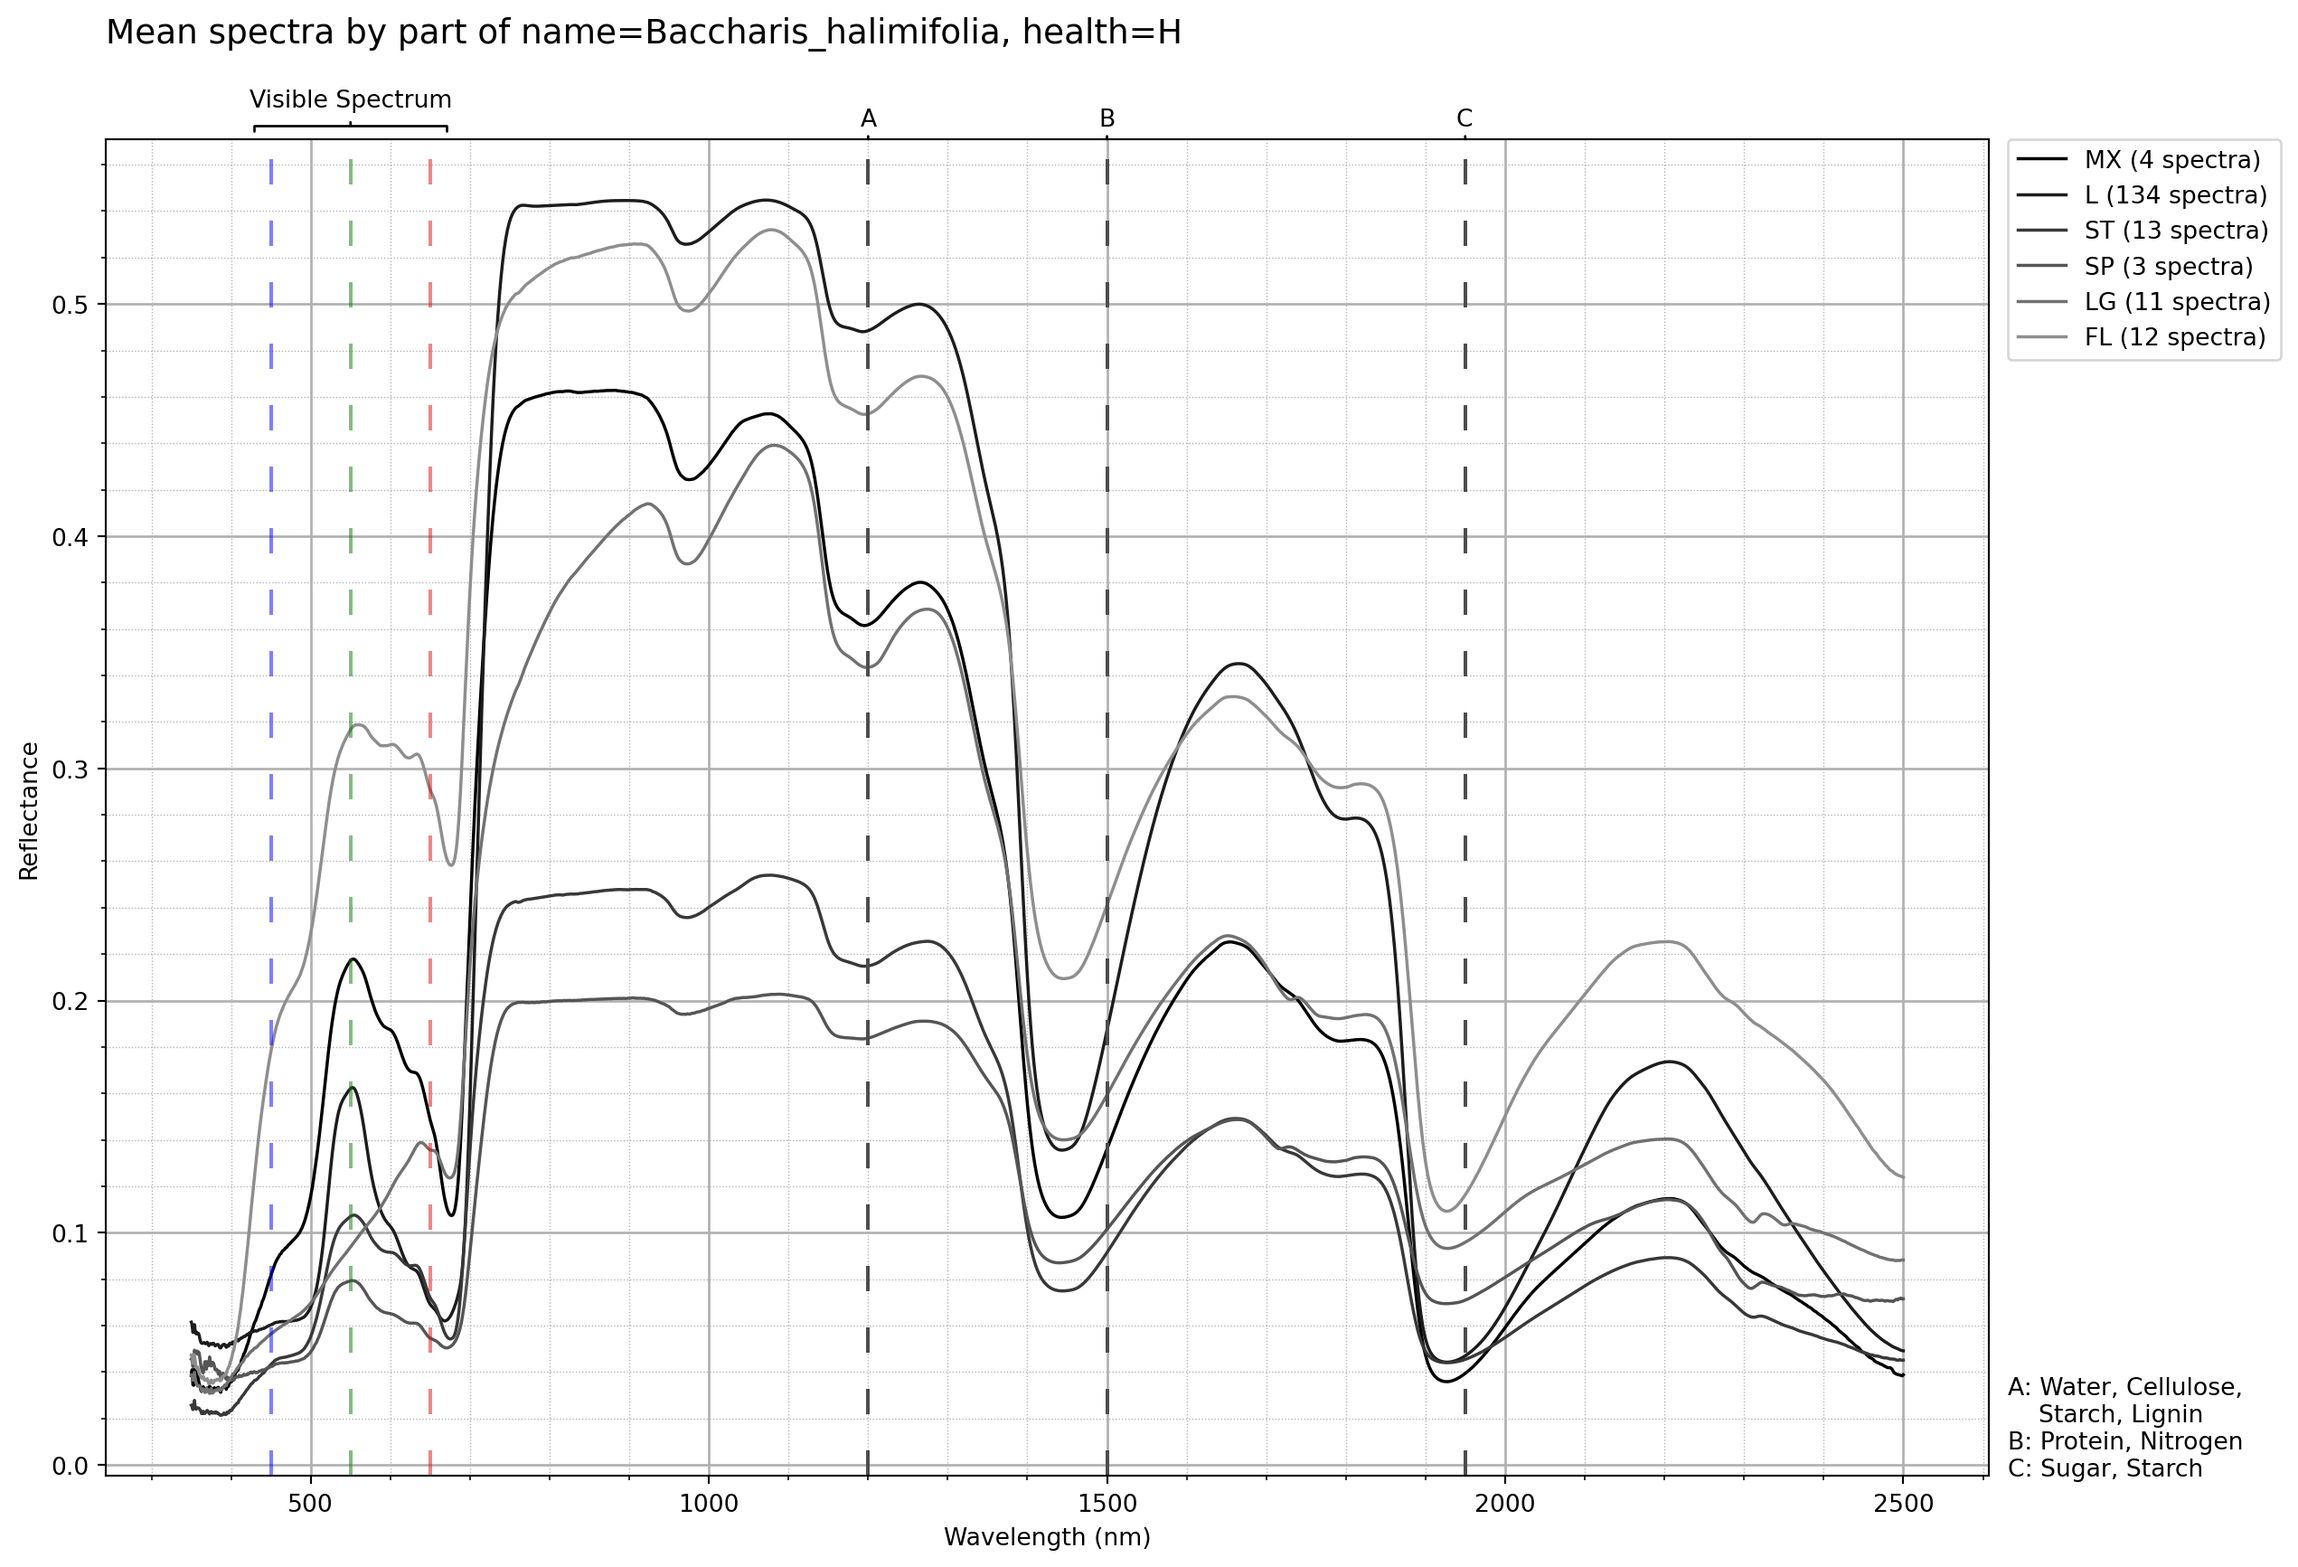
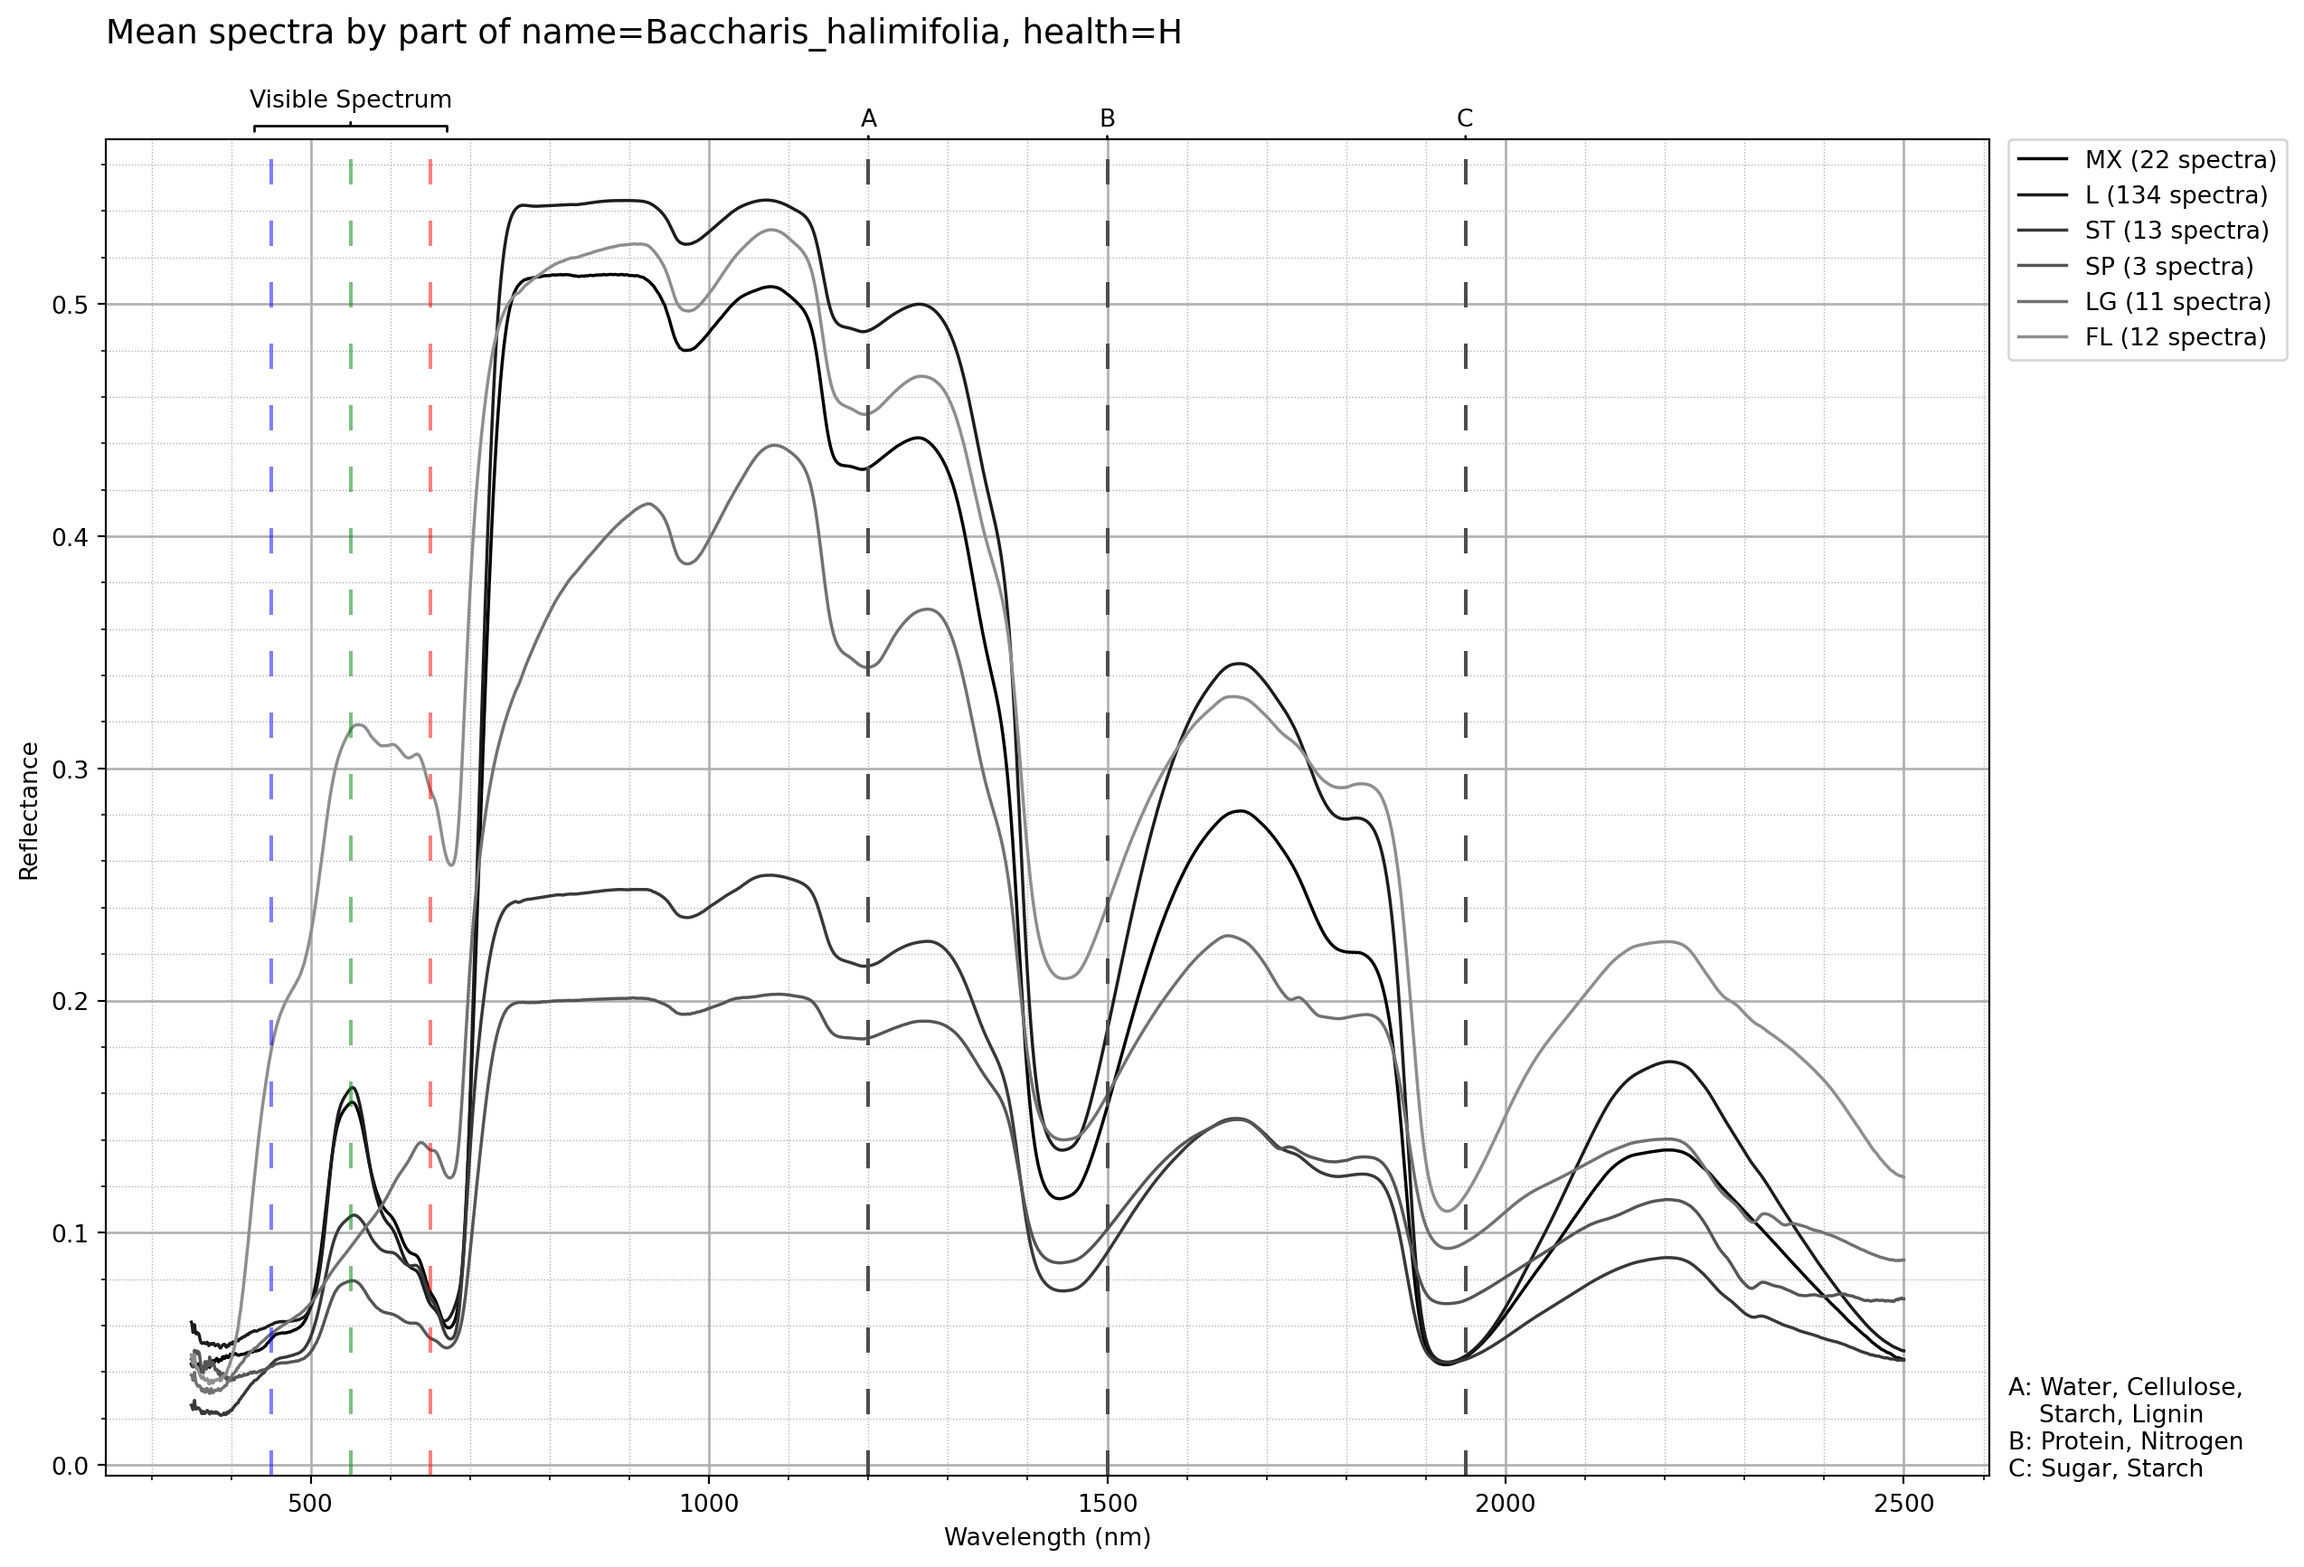
Built site for gh-pages

diff --git a/reports/Report1.html b/reports/Report1.html
@@ -152,7 +152,7 @@ ul.task-list li input[type="checkbox"] {
 
 <section id="spectral-library" class="level2 page-columns page-full">
 <h2 class="anchored" data-anchor-id="spectral-library">Spectral Library</h2>
-<p>Number of Spectra: 4926</p>
+<p>Number of Spectra: 5016</p>
 <div id="cell-table1" class="cell page-columns page-full" data-execution_count="9">
 <div id="table1" class="cell-output cell-output-display column-page-inset-right" data-execution_count="9">
 <div>
@@ -222,8 +222,8 @@ ul.task-list li input[type="checkbox"] {
 </tr>
 <tr class="even">
 <td data-quarto-table-cell-role="th">Baccharis_halimifolia</td>
-<td>260</td>
-<td>4</td>
+<td>278</td>
+<td>22</td>
 <td>217</td>
 <td>13</td>
 <td>3</td>
@@ -233,10 +233,10 @@ ul.task-list li input[type="checkbox"] {
 <td>0</td>
 <td>0</td>
 <td>76</td>
-<td>76</td>
+<td>94</td>
 <td>104</td>
 <td>37</td>
-<td>177</td>
+<td>195</td>
 <td>0</td>
 <td>0</td>
 <td>0</td>
@@ -244,7 +244,7 @@ ul.task-list li input[type="checkbox"] {
 <td>46</td>
 <td>0</td>
 <td>0</td>
-<td>4</td>
+<td>22</td>
 <td>45</td>
 <td>0</td>
 <td>0</td>
@@ -309,9 +309,9 @@ ul.task-list li input[type="checkbox"] {
 </tr>
 <tr class="odd">
 <td data-quarto-table-cell-role="th">Ilex_vomitoria</td>
-<td>481</td>
-<td>109</td>
-<td>132</td>
+<td>507</td>
+<td>120</td>
+<td>147</td>
 <td>60</td>
 <td>26</td>
 <td>124</td>
@@ -320,10 +320,10 @@ ul.task-list li input[type="checkbox"] {
 <td>0</td>
 <td>6</td>
 <td>0</td>
-<td>423</td>
+<td>449</td>
 <td>7</td>
 <td>7</td>
-<td>432</td>
+<td>458</td>
 <td>0</td>
 <td>0</td>
 <td>0</td>
@@ -338,10 +338,10 @@ ul.task-list li input[type="checkbox"] {
 </tr>
 <tr class="even">
 <td data-quarto-table-cell-role="th">Iva_frutescens</td>
-<td>397</td>
+<td>414</td>
 <td>14</td>
-<td>297</td>
-<td>50</td>
+<td>307</td>
+<td>57</td>
 <td>9</td>
 <td>24</td>
 <td>0</td>
@@ -349,7 +349,7 @@ ul.task-list li input[type="checkbox"] {
 <td>0</td>
 <td>0</td>
 <td>5</td>
-<td>107</td>
+<td>124</td>
 <td>193</td>
 <td>57</td>
 <td>173</td>
@@ -358,7 +358,7 @@ ul.task-list li input[type="checkbox"] {
 <td>0</td>
 <td>0</td>
 <td>71</td>
-<td>69</td>
+<td>86</td>
 <td>14</td>
 <td>106</td>
 <td>15</td>
@@ -483,8 +483,8 @@ ul.task-list li input[type="checkbox"] {
 </tr>
 <tr class="odd">
 <td data-quarto-table-cell-role="th">Rosa_rugosa</td>
-<td>220</td>
-<td>71</td>
+<td>232</td>
+<td>83</td>
 <td>125</td>
 <td>12</td>
 <td>0</td>
@@ -493,11 +493,11 @@ ul.task-list li input[type="checkbox"] {
 <td>0</td>
 <td>0</td>
 <td>59</td>
-<td>111</td>
+<td>123</td>
 <td>47</td>
 <td>3</td>
 <td>3</td>
-<td>168</td>
+<td>180</td>
 <td>8</td>
 <td>0</td>
 <td>0</td>
@@ -541,9 +541,9 @@ ul.task-list li input[type="checkbox"] {
 </tr>
 <tr class="odd">
 <td data-quarto-table-cell-role="th">Solidago_sempervirens</td>
-<td>367</td>
+<td>384</td>
 <td>31</td>
-<td>283</td>
+<td>300</td>
 <td>9</td>
 <td>0</td>
 <td>0</td>
@@ -551,11 +551,11 @@ ul.task-list li input[type="checkbox"] {
 <td>0</td>
 <td>0</td>
 <td>7</td>
-<td>133</td>
+<td>150</td>
 <td>95</td>
 <td>95</td>
 <td>27</td>
-<td>224</td>
+<td>241</td>
 <td>18</td>
 <td>0</td>
 <td>15</td>
@@ -768,7 +768,7 @@ Note
 <div class="cell-output cell-output-display page-columns page-full">
 <div class="page-columns page-full">
 <figure class="figure page-columns page-full">
-<p class="page-columns page-full"><img src="Report1_files/figure-html/cell-22-output-1.png" width="1271" height="867" class="figure-img column-page"></p>
+<p class="page-columns page-full"><img src="Report1_files/figure-html/cell-22-output-1.png" width="1274" height="867" class="figure-img column-page"></p>
 </figure>
 </div>
 </div>
